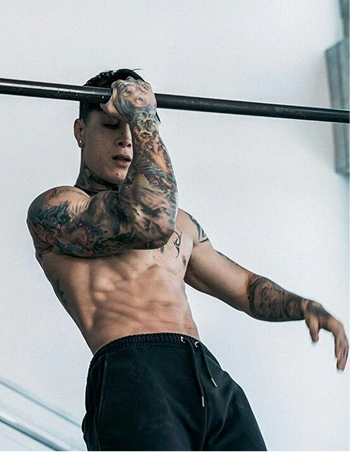
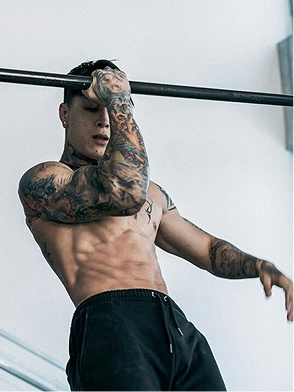
🔥remove: Burn Photo

diff --git a/src/components/landing/about/index.tsx b/src/components/landing/about/index.tsx
@@ -22,7 +22,7 @@ export default function AboutUs() {
         {/* Image 2  */}
         <div className="hidden md:order-2 lg:block w-64 lg:w-64 ml-4 lg:ml-8 relative">
           <Image
-            src={'/teste.jpg'}
+            src={'/forca.jpg'}
             width={300}
             height={400}
             className="w-full h-auto object-cover shadow-lg"
